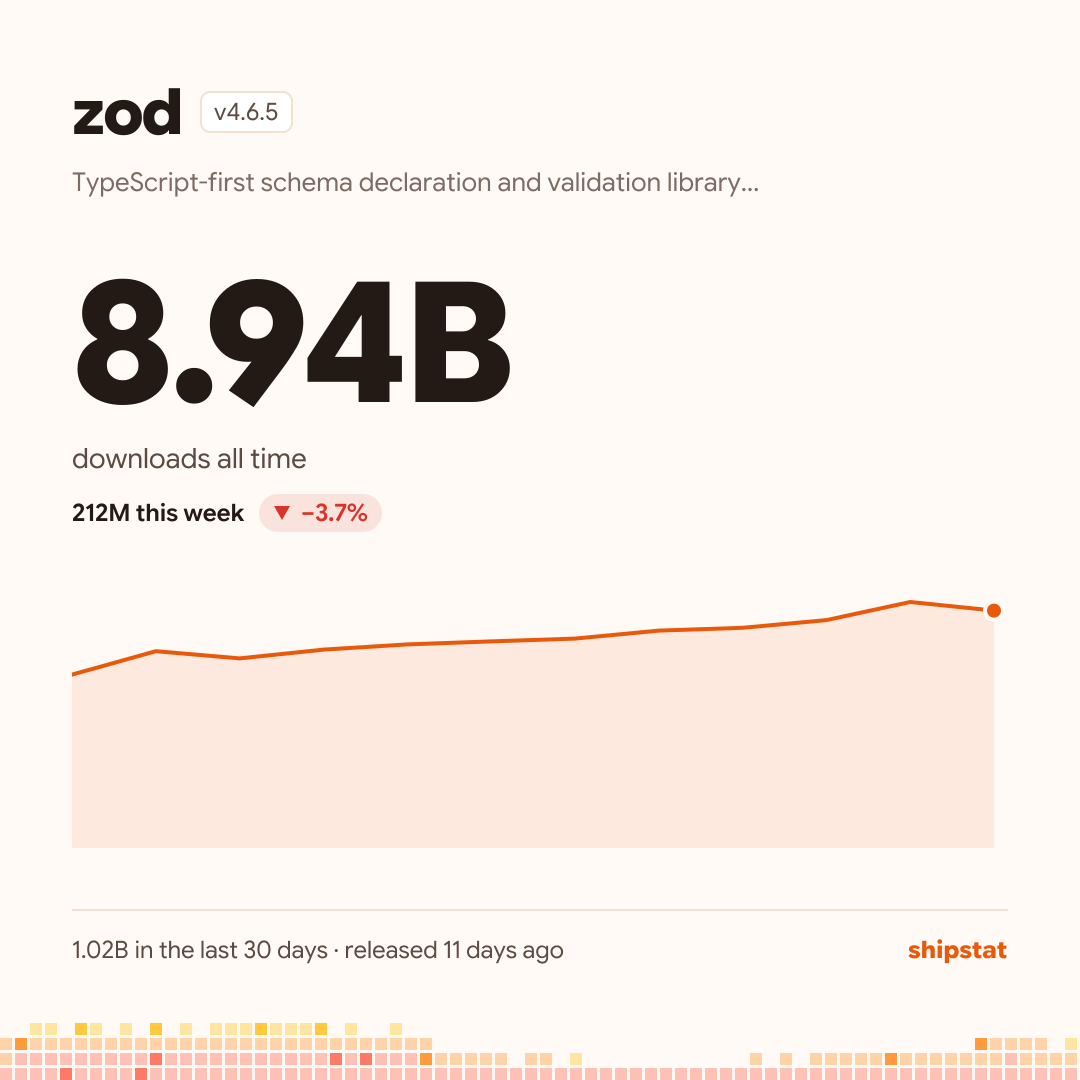
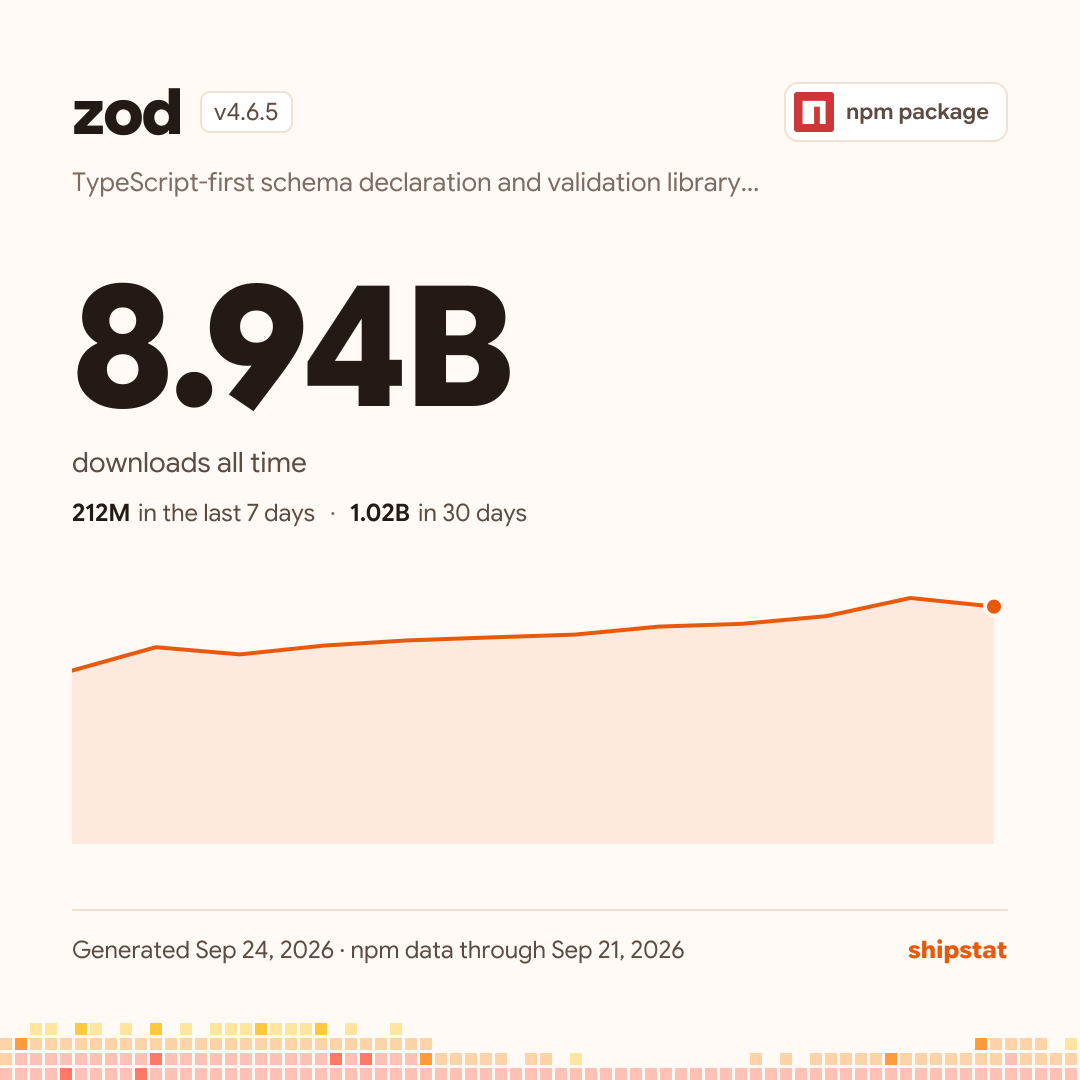
Update README share cards to the current design
- Regenerate the wide and square card images: npm package badge,
  last 7 / 30 days, and the generated / data-through dates
- Describe what the card shows and why it carries a timestamp
- Gap detection now explained via the reference package

diff --git a/README.md b/README.md
@@ -58,10 +58,13 @@ shipstat shows only what npm actually reports, and explains what the numbers mea
 Every package gets its own card. Paste a shipstat link on X, LinkedIn, Slack or Discord and it unfurls by
 itself. The card also downloads as a PNG, wide or square.
 
+Each card leads with all-time downloads, adds the last 7 and 30 days and a 12-week sparkline, and is marked as an
+npm package. Since the numbers change, every card says when it was generated and how far npm's data goes.
+
 <p align="center">
-  <img src="docs/images/card-wide.png" alt="Wide share card for react: 11.3B downloads all time, 133M this week" width="64%">
+  <img src="docs/images/card-wide.png" alt="Wide share card for react: 11.3B downloads all time, 133M in the last 7 days, 633M in 30 days, generated Sep 24, 2026 with npm data through Sep 21, 2026" width="64%">
   &nbsp;
-  <img src="docs/images/card-square.png" alt="Square share card for zod" width="33.5%">
+  <img src="docs/images/card-square.png" alt="Square share card for zod: 8.94B downloads all time" width="33.5%">
 </p>
 
 Put it in your README with one line:
@@ -91,8 +94,9 @@ flowchart LR
   so a popular package costs a few npm requests every 6 hours, however many people view it.
 - **History in fixed windows.** npm's range endpoint silently cuts off anything longer than about 18 months, so
   history is fetched in fixed 500-day windows. Windows fully in the past never change, so they're cached for a week.
-- **Gap detection.** A zero in the middle of an otherwise busy stretch is treated as missing data, not a real
-  zero (`src/lib/series.ts`).
+- **Gap detection.** Every package is checked against a reference package that never genuinely has a zero day.
+  If it reads 0, npm has no data for that day for anyone, so the day is marked as missing rather than counted as
+  a real zero, for small packages as well as big ones (`src/lib/series.ts`).
 - **Built to stay up.** Requests that npm rate-limits (429) or that fail with a 5xx error are retried, a failing
   "latest day" lookup falls back to npm's usual lag, and a share card whose font fails to render falls back to a
   built-in one.
